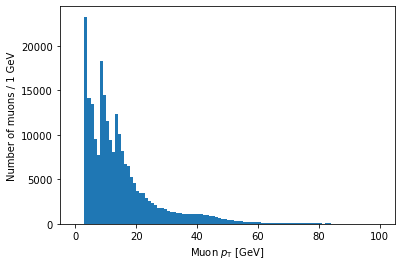
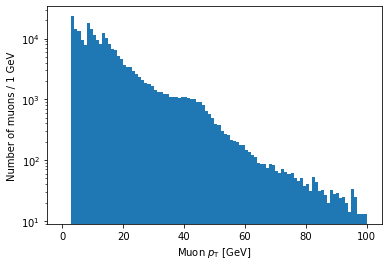
update histograms section

diff --git a/_episodes/04-histograms.md b/_episodes/04-histograms.md
@@ -6,15 +6,27 @@ questions:
 - "How do I make a histogram in Python (without ROOT)?"
 - "How can I change histogram settings?"
 objectives:
-- "First objective. (FIXME)"
+- ""
 keypoints:
-- "First key point. (FIXME)"
+- ""
 ---
+
+# Histogramming basics
+
+Histograms are the most important type of plots for particle physics.
+We'll need to know how to make them with the tools we have.
+matplotlib is the standard and most popular plotting package for Python, and it is quite powerful, so we'll use it.
+First we import it:
 
 ~~~
 import matplotlib.pyplot as plt
 ~~~
 {: .language-python}
+
+(It's customary to import it abbreviated as `plt` as above, which saves some typing.)
+
+The histogram function in matplotlib is `hist()`.
+We can see what it does by just passing it our `nMuon` branch:
 
 ~~~
 plt.hist(branches['nMuon'])
@@ -32,15 +44,24 @@ plt.hist(branches['nMuon'])
 
 > ## What's with all the numbers above the plot?
 >
-> ~~~
-> plt.hist(branches['nMuon']);
-> ~~~
-> {: .language-python}
+> `hist()` actually returns all the bin contents and bin edges in case you want to do something with them after creating the plot.
+> We don't need these return values, and they clutter up the notebook, so we should get rid of them.
+> There are a few ways to do this, but I think the best practice is to add `plt.show()`, which is a way to tell matplotlib when your plot is all set up and ready to be displayed.
+> As a consequence of `hist()` not being the last line in the notebook cell, the bin values will no longer be printed.
+> For example:
+>
 > ~~~
 > plt.hist(branches['nMuon'])
 > plt.show()
 > ~~~
 > {: .language-python}
+>
+> I'll follow this convention from now on.
+{: .callout}
+
+That created a histogram, but it's not a very good one.
+You can't really understand much about the distribution because the binning and scale are too large.
+These settings are controlled by the `bins` and `range` parameters:
 
 ~~~
 plt.hist((branches['nMuon'], bins=10, range=(0, 10))
@@ -50,7 +71,12 @@ plt.show()
 
 ![nMuon_hist_2]({{ page.root }}/fig/nMuon_hist_2.png)
 
+`bins` here is the total number of bins (of equal width), and `range` is a pair of numbers representing where the first bin starts and where the last bin ends.
+
 > ## Binning and range tips
+>
+> Getting the binning and range right for a histogram is somewhat of an art, but I often find it helpful to know the mean, standard deviation, minimum, and maximum of the original distribution.
+> The following functions calculate these for an array:
 >
 > ~~~
 > branches['nMuon'].mean()
@@ -87,6 +113,11 @@ plt.show()
 > 39
 > ~~~
 > {: .output}
+{: .callout}
+
+Hmm, we're still missing axis titles on the histogram.
+(Always label your plots!)
+We can do this with the `xlabel()` and `ylabel()` functions:
 
 ~~~
 plt.hist(branches['nMuon'], bins=10, range=(0, 10))
@@ -98,46 +129,75 @@ plt.show()
 
 ![nMuon_hist_3]({{ page.root }}/fig/nMuon_hist_3.png)
 
+# Histogramming a jagged array
+
+We can make histograms of the other branches as well, but there's one more step necessary because of their jaggedness.
+matplotlib expects a series of data to be in a 1D array, so we need to convert or *flatten* the jagged 2D array into a 1D array.
+This is as easy as adding `.flatten()` to the branch's array:
 
 ~~~
-plt.hist((branches['Muon_pt'].flatten(), bins=100, range=(0, 100));
+plt.hist(branches['Muon_pt'].flatten(), bins=100, range=(0, 100))
+plt.xlabel('Muon $p_{\mathrm{T}}$ [GeV]')
+plt.ylabel('Number of muons / 1 GeV')
 plt.show()
 ~~~
 {: .language-python}
 
 ![Muon_pt_hist_1]({{ page.root }}/fig/Muon_pt_hist_1.png)
 
+Another important thing to know is how to set axes to a logarithmic scale.
+For the y-axis, this is as simple as adding a line with `plt.yscale('log')`:
+
 ~~~
-plt.hist(branches['Muon_pt'].flatten(), bins=100, range=(0, 100));
-plt.xlabel('Muon $p_{\mathrm{T}}$ [MeV]')
-plt.ylabel('Number of muons / 1 MeV')
+plt.hist(branches['Muon_pt'].flatten(), bins=100, range=(0, 100))
+plt.xlabel('Muon $p_{\mathrm{T}}$ [GeV]')
+plt.ylabel('Number of muons / 1 GeV')
+plt.yscale('log')
 plt.show()
 ~~~
 {: .language-python}
 
 ![Muon_pt_hist_2]({{ page.root }}/fig/Muon_pt_hist_2.png)
 
-~~~
-plt.hist(branches['Muon_pt'].flatten(), bins=100, range=(0, 100));
-plt.xlabel('Muon $p_{\mathrm{T}}$ [MeV]')
-plt.ylabel('Number of muons / 1 MeV')
-plt.yscale('log')
-plt.show()
-~~~
-{: .language-python}
-
-![Muon_pt_hist_3]({{ page.root }}/fig/Muon_pt_hist_3.png)
+As you might guess, `plt.xscale('log')` will make the *x-axis* scale logarithmic.
+The issue is that this doesn't make the bin sizes logarithmic, so the plot will end up looking quite strange in most cases.
+The solution to this is to use a numpy function called `logspace` to calculate logarithmic bin edges:
 
 ~~~
 import numpy as np
-plt.hist(branches['Muon_pt'].flatten(), bins=np.logspace(np.log10(1), np.log10(100), 100));
-plt.xlabel('Muon $p_{\mathrm{T}}$ [MeV]')
+plt.hist(branches['Muon_pt'].flatten(), bins=np.logspace(np.log10(1), np.log10(100), 100))
+plt.xlabel('Muon $p_{\mathrm{T}}$ [GeV]')
 plt.xscale('log')
 plt.ylabel('Number of muons')
 plt.show()
 ~~~
 {: .language-python}
 
-![Muon_pt_hist_4]({{ page.root }}/fig/Muon_pt_hist_4.png)
+![Muon_pt_hist_3]({{ page.root }}/fig/Muon_pt_hist_3.png)
+
+In the above example, `bins` is being set to an array.
+If matplotlib sees that `bins` is an array, it will use the values of the array to set the bin edges rather than try to evenly space them across `range`.
+Don't worry too much if this seems confusing; the details of how this works isn't important for this lesson.
+The important part is that, inside the `logspace()` call, you can modify the numbers to change where the bins start and end and how many bins there are.
+Don't remove the `np.log10` part, though.
+
+> ## Exercise
+>
+> Make a histogram of the eta of all muons. Play around with the options described in this page to try to get a nice looking plot.
+>
+> > ## Solution
+> >
+> > Your plot might look a bit different, but it's fine as long as the binning is reasonable such that you can see the same distribution features.
+> >
+> > ~~~
+> > plt.hist(branches['Muon_eta'].flatten(), bins=50, range=(-2.5, 2.5))
+> > plt.xlabel('Muon $\eta$')
+> > plt.ylabel('Number of muons')
+> > plt.show()
+> > ~~~
+> >
+> > ![Muon_eta_hist_1]({{ page.root }}/fig/Muon_eta_hist_1.png)
+> {: .solution}
+{: .challenge}
 
 {% include links.md %}
